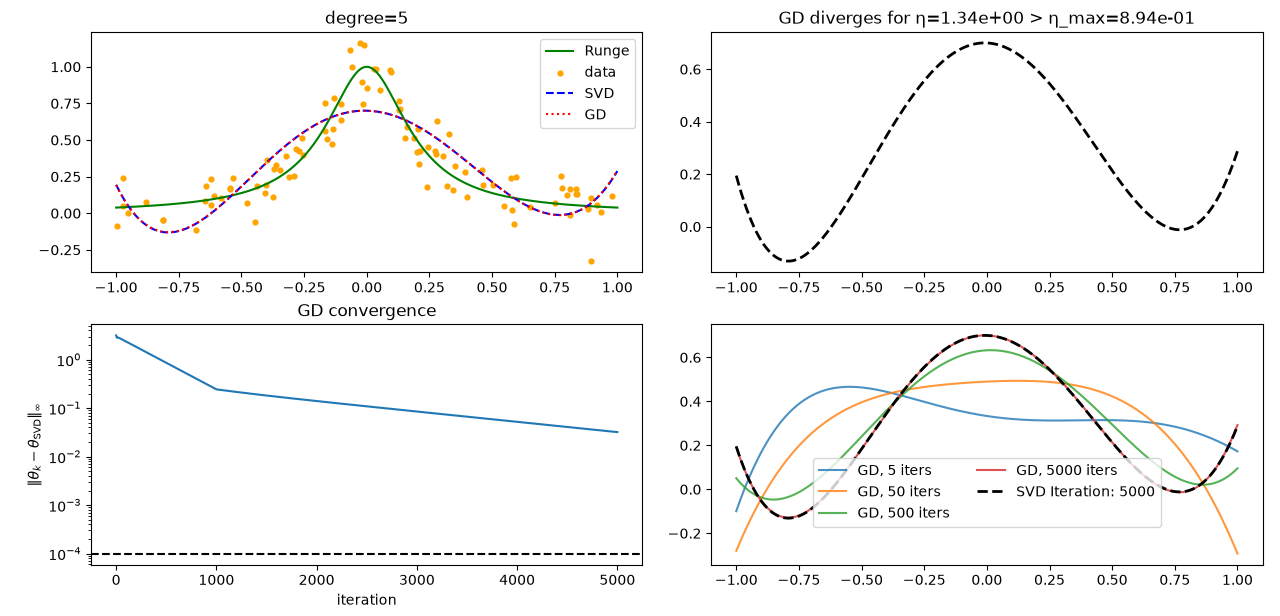
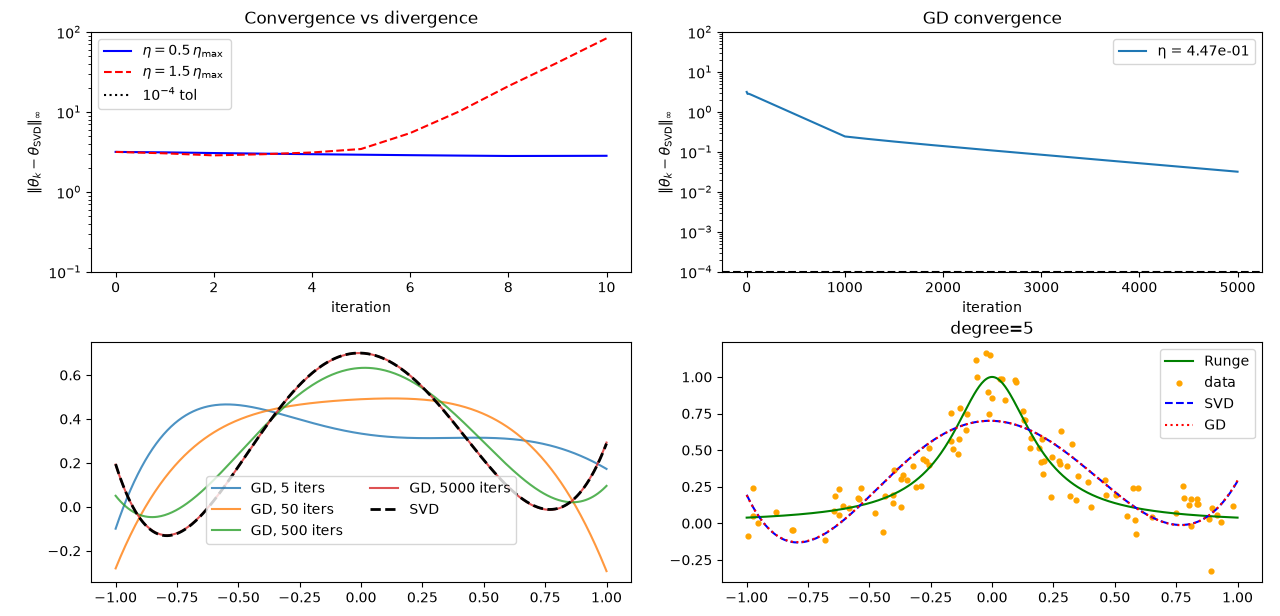
finished the first part of that

diff --git a/Project1/results/theta_tests.py b/Project1/results/theta_tests.py
@@ -5,11 +5,10 @@ sys.path.insert(0,str(project_root))
 
 import numpy as np
 import matplotlib.pyplot as plt
-from src.fits import ols_fit, fit_ols_SVD, fit_ridge, predict
+from src.fits import fit_ols_SVD
 from src.function_setups import runge, design_matrix, generate_data
 import jax
-import jax.numpy as jnp
-from polynomials.optimizers import eta_max_ols, cost_ols,cost_ridge, grad_ols_analytic, grad_ridge_analytic, gd, gd_momentum, adagrad, rmsprop, adam
+from polynomials.optimizers import eta_max_ols, cost_ols,cost_ridge, grad_ols_analytic, grad_ridge_analytic, gd
 import importlib, polynomials.optimizers
 importlib.reload(polynomials.optimizers)
 
@@ -18,7 +17,7 @@ importlib.reload(polynomials.optimizers)
 # =================================================================
 
 x,y = generate_data(n=100, sigma=0.1, seed=2026)
-degree = 5 #Can also be changed to be for 8-15
+degree = 5 # For higher degree, the design matrix becomes rank-deficient and the normal equations fail.
 X = design_matrix(x, degree, intercept=True)
 xx = np.linspace(-1, 1, 400)
 Xx = design_matrix(xx, degree, intercept=True)
@@ -27,8 +26,8 @@ Xx = design_matrix(xx, degree, intercept=True)
 rng = np.random.default_rng(0)
 theta0 = rng.normal(size=X.shape[1])
 
-eta = 0.5 * eta_max_ols(X, 100)
-eta_explode = 1.5 * eta_max_ols(X, 100)
+eta = 0.5 * eta_max_ols(X, X.shape[0])
+eta_explode = 1.5 * eta_max_ols(X, X.shape[0])
 
 theta_gd, hist_gd = gd(grad_ols_analytic, theta0,
                        n_iter=5000, eta=eta, X=X, y=y)
@@ -52,42 +51,36 @@ print(f"Ridge |∇_an − ∇_ad|_∞ = {np.max(np.abs(g_an_ridge - g_ad_ridge))
 # CONVERGENCE / STABILITY PLOT
 # =================================================================
 # trajectories for the stability panel
-_, hist_safe    = gd(grad_ols_analytic, theta0, n_iter=30, eta=eta,         X=X, y=y)
-_, hist_explode = gd(grad_ols_analytic, theta0, n_iter=30, eta=eta_explode, X=X, y=y)
+_, hist_safe    = gd(grad_ols_analytic, theta0, n_iter=10, eta=eta,         X=X, y=y)
+_, hist_explode = gd(grad_ols_analytic, theta0, n_iter=10, eta=eta_explode, X=X, y=y)
 
 fig, ax = plt.subplots(2, 2, figsize=(11, 7))
 
-# (a) fits — do GD and closed-form look the same?
-
-ax[0,0].plot(xx, runge(xx), 'g-', label='Runge')
-ax[0,0].scatter(x, y, s=12, c='orange', label='data')
-ax[0,0].plot(xx, Xx @ theta_svd, 'b--', label='SVD')
-ax[0,0].plot(xx, Xx @ theta_gd,  'r:',  label='GD')
-ax[0,0].legend(); ax[0,0].set_title(f'degree={degree}')
-
-# (b) convergence of GD toward SVD
-dist = [np.linalg.norm(t - theta_svd, ord=np.inf) for t in hist_gd]
-ax[1,0].semilogy(dist)
-ax[1,0].axhline(1e-4, ls='--', c='k')
-ax[1,0].set_xlabel('iteration')
-ax[1,0].set_ylabel(r'$\|\theta_k-\theta_{\rm SVD}\|_\infty$')
-ax[1,0].set_title('GD convergence')
-
-# (c) plot exploding step size:  GD diverges if η > η_max
+# (a) plot exploding step size:  GD diverges if η > η_max
 
 dist_safe    = [np.linalg.norm(t - theta_svd, ord=np.inf) for t in hist_safe]
 dist_explode = [np.linalg.norm(t - theta_svd, ord=np.inf) for t in hist_explode]
 
-ax[0,1].semilogy(dist_safe,    'b-',  label=r'$\eta = 0.5\,\eta_{\max}$')
-ax[0,1].semilogy(dist_explode, 'r--', label=r'$\eta = 1.5\,\eta_{\max}$')
-ax[0,1].axhline(1e-4, ls=':', c='k', label=r'$10^{-4}$ tol')
+ax[0,0].semilogy(dist_safe,    'b-',  label=r'$\eta = 0.5\,\eta_{\max}$')
+ax[0,0].semilogy(dist_explode, 'r--', label=r'$\eta = 1.5\,\eta_{\max}$')
+ax[0,0].axhline(1e-4, ls=':', c='k', label=r'$10^{-4}$ tol')
+ax[0,0].set_ylim(1e-1, 1e2)
+ax[0,0].set_xlabel('iteration')
+ax[0,0].set_ylabel(r'$\|\theta_k - \theta_{\rm SVD}\|_\infty$')
+ax[0,0].legend()
+ax[0,0].set_title('Convergence vs divergence')
+
+# (b) convergence of GD toward SVD
+dist = [np.linalg.norm(t - theta_svd, ord=np.inf) for t in hist_gd]
+ax[0,1].semilogy(dist)
+ax[0,1].axhline(1e-4, ls='--', c='k')
 ax[0,1].set_xlabel('iteration')
-ax[0,1].set_ylabel(r'$\|\theta_k - \theta_{\rm SVD}\|_\infty$')
-ax[0,1].legend()
-ax[0,1].set_title('Convergence vs divergence')
+ax[0,1].set_ylabel(r'$\|\theta_k-\theta_{\rm SVD}\|_\infty$')
+ax[0,1].set_title('GD convergence')
+ax[0,1].set_ylim(1e-4, 1e2)
+ax[0,1].legend([f'η = {eta:.2e}'], loc='upper right')
 
-
-# (d) Plots of GD marching toward SVD solution
+# (c) Plots of GD marching toward SVD solution
 iters = {
   "Iteration: 5": 5,
   "Iteration: 50": 50,
@@ -95,12 +88,25 @@ iters = {
   "Iteration: 5000": 5000
 }
 for label, k in iters.items():
-    ax[1,1].plot(xx, Xx @ hist_gd[k], alpha=0.8,
+    ax[1,0].plot(xx, Xx @ hist_gd[k], alpha=0.8,
             label=fr'GD, {k} iters')
-ax[1,1].plot(xx, Xx @ theta_svd, 'k--', lw=2, label=f'SVD {label}')
+ax[1,0].plot(xx, Xx @ theta_svd, 'k--', lw=2, label=f'SVD')
+ax[1,0].legend(loc='center', bbox_to_anchor=(0.5, 0.3), ncol=2)
+
+
+# (d) fits — do GD and closed-form look the same?
+
+ax[1,1].plot(xx, runge(xx), 'g-', label='Runge')
+ax[1,1].scatter(x, y, s=12, c='orange', label='data')
+ax[1,1].plot(xx, Xx @ theta_svd, 'b--', label='SVD')
+ax[1,1].plot(xx, Xx @ theta_gd,  'r:',  label='GD')
+ax[1,1].legend()
+ax[1,1].set_title(f'degree={degree}')
 
 plt.tight_layout()
-plt.savefig("test_gd.png", dpi=140)
-plt.legend(loc='center', bbox_to_anchor=(0.5, 0.3), ncol=2)
 plt.show()
+
+
+
+
 
